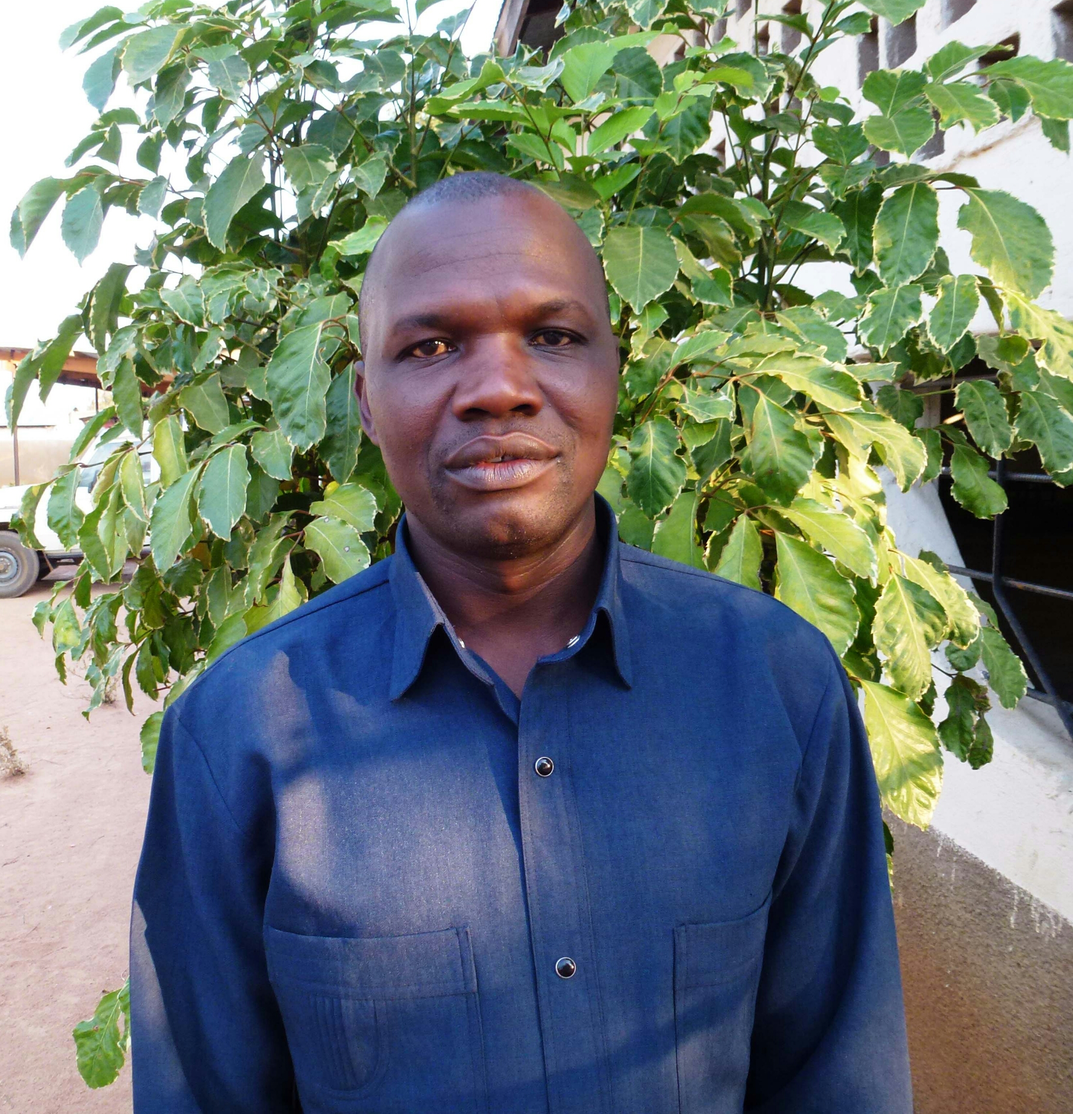
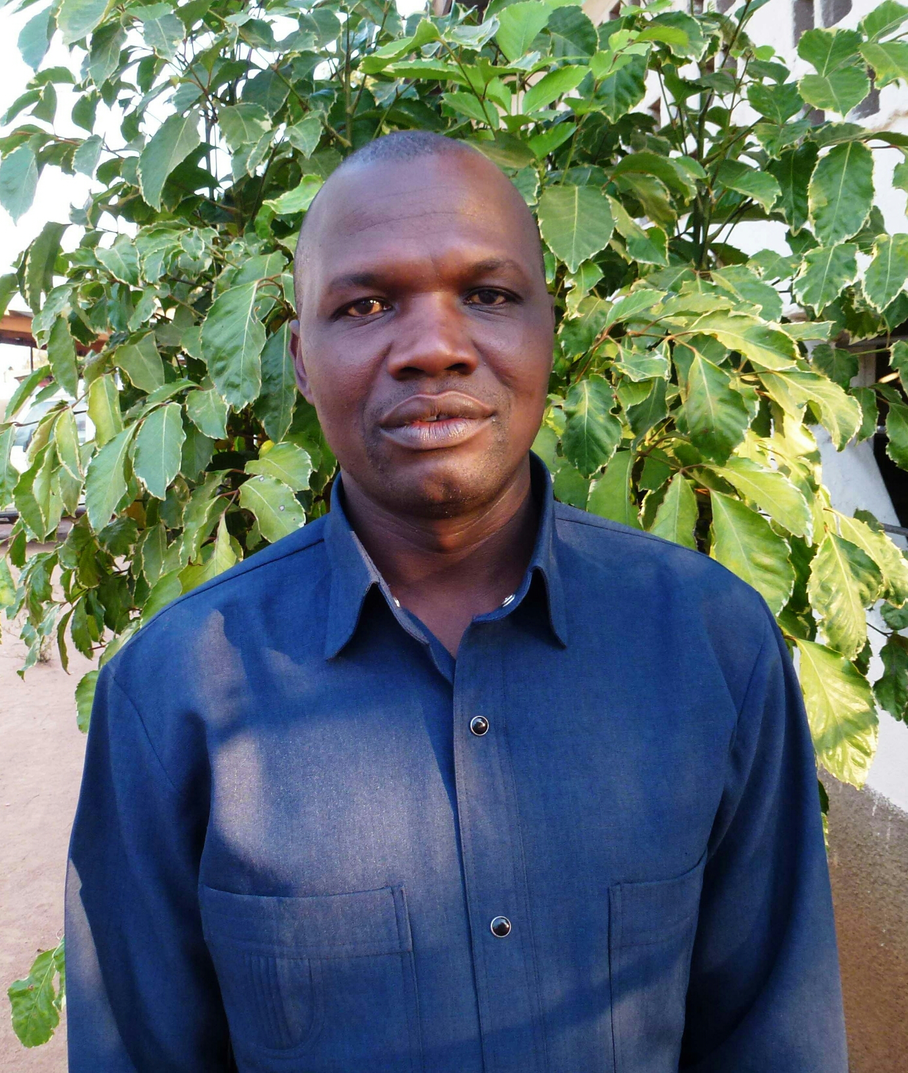
interface

diff --git a/app/views/history.blade.php b/app/views/history.blade.php
@@ -36,7 +36,7 @@
     <h2>Our Motivation</h2>
     <div class="toggle-trigger">Mission</div>
     <div class="toggle-container">
-        <p>Provide the highest quality health care at affordable cost. </p>
+        <p>Provide the highest quality health care at affordable cost</p>
     </div>
     <div class="toggle-trigger">Vission</div>
     <div class="toggle-container">
@@ -45,15 +45,15 @@
     <div class="toggle-trigger">Core Values</div>
     <div class="toggle-container">
         <ul>
-            <li>Excellence - In maintaining a standard of care.</li>
-            <li>Community - To treat the families in the community at affordable cost.</li>
-            <li>Antcorruption - There is no room for corruption in all we do.</li>
-            <li>Motivation - Workforce is one of the most valuable asset.</li>
+            <li style="font-family: 'Lato'; font-size: 16px">Excellence - In maintaining a standard of care</li>
+            <li  style="font-family: 'Lato'; font-size: 16px">Community - To treat the families in the community at affordable cost</li>
+            <li style="font-family: 'Lato'; font-size: 16px">Anti corruption - There is no room for corruption in all we do</li>
+            <li style="font-family: 'Lato'; font-size: 16px">Motivation - Workforce is one of the most valuable asset</li>
         </ul>
     </div>
     <div class="toggle-trigger">Overall Goals</div>
     <div class="toggle-container">
-        <p>Enhance the health and well-being of the community we save. </p>
+        <p>Enhance the health and well-being of the community we save </p>
     </div>
     <!-- ENDS Toggle -->
 </div>

diff --git a/app/views/staff.blade.php b/app/views/staff.blade.php
@@ -40,7 +40,7 @@
     <div class="one_fourth" style="box-shadow: 5px 5px 10px #888888">
         <div class="toggle-trigger">
             <h2 style="text-align: center">Matron</h2>
-            <section class="boxthreecenter"> <img src="{{asset('images/matron.jpg')}}" style="box-shadow: 1px 1px 5px #888888;height: 130px;width:150px" alt=""/>
+            <section class="boxthreecenter"> <img src="{{asset('images/matron.jpg')}}" style="box-shadow: 1px 1px 5px #888888;height: 130px;width:120px" alt=""/>
                 <h3>Anna Mihayo</h3>
                 <p>Ms. Anna Mihayo attended her nursing training at Nkinga Nursing College...  </p>
                 <a class ="simple" href="#">+ Read more</a> </section>

diff --git a/app/views/leadership.blade.php b/app/views/leadership.blade.php
@@ -65,7 +65,7 @@
 
             </p>
             <p style="color: #269abc">
-                Doctor in charge<br/>
+                Doctor incharge<br/>
                 Lowa Health Centre
             </p>
         </div>
@@ -85,7 +85,7 @@
             <h4>
                 Member
             </h4>
-            <img src="{{asset('images/matron.jpg')}}" class="img-thumbnail img-rounded img-responsive"style="margin:5px 0px 15px; height: 200px; width: 200px">
+            <img src="{{asset('images/matron.jpg')}}" class="img-thumbnail img-rounded img-responsive"style="margin:5px 0px 15px; height: 200px; width:180px">
             <p>
                 Ms. Anna Mihayo
             </p>

diff --git a/app/views/home.blade.php b/app/views/home.blade.php
@@ -84,7 +84,7 @@
             <div class="col-md-3" style="border-bottom-left-radius: 20px;border-bottom-right-radius: 20px">
                 <div class="inner-div">
                     <h2 style="text-align: center;color: #843534">Latest News</h2>
-                    <h4><strong>Partnership meeting in Sweden</strong></h4>
+                    <h4><strong>Partnership Meeting </strong></h4>
                     <p>
                         In May 2014, our administrative and projects manager travelled to Sweden. Among other places, he visited<span class="red"> Ostersund and
                         Stokholm</span> where he met with our supporters for water project.
